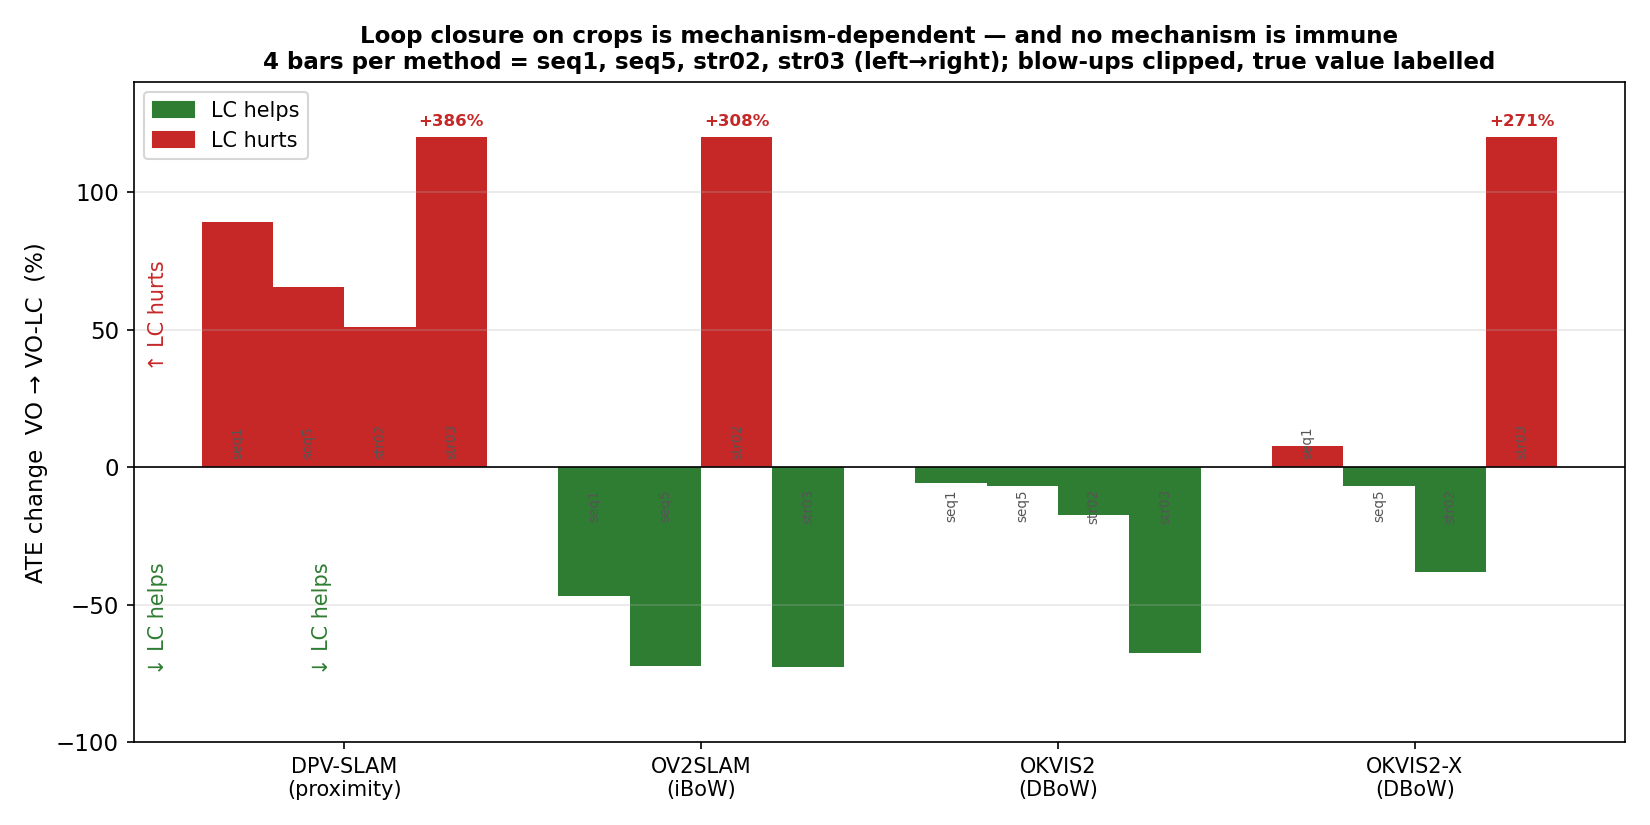
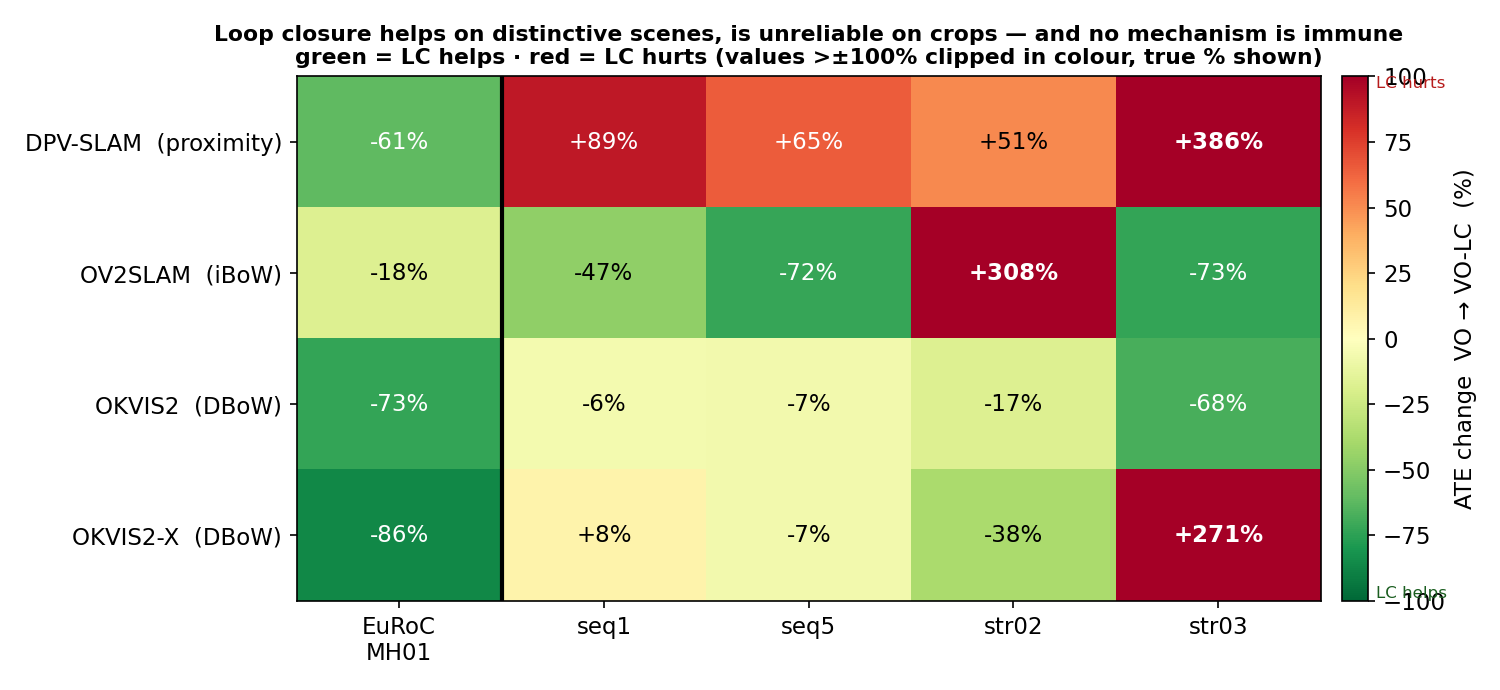
Replace LC bar chart with heatmap; drop unhelpful trajectory overlay

diff --git a/scripts/eval/make_report_figures.py b/scripts/eval/make_report_figures.py
@@ -68,39 +68,40 @@ def fig_excitation():
     fig.suptitle("The IMU's value is excitation-dependent:  it COLLAPSES on ZED2i, HELPS on Rosario", fontweight="bold")
     fig.tight_layout(); p = f"{OUT}/fig_imu_excitation.png"; fig.savefig(p); print(p)
 
-# ── FIG B: loop closure on crops — mechanism spectrum (VO -> VO-LC) ──────────
+# ── FIG B: loop closure — mechanism x sequence heatmap (VO -> VO-LC) ─────────
 def fig_lc_mechanism():
     VO, VOLC = load_csv("vo"), load_csv("vo-lc")
-    seqs = [("rosariov2", "sequence1", "seq1"), ("rosariov2", "sequence5", "seq5"),
-            ("hortimulti", "strawberry02", "str02"), ("hortimulti", "strawberry03", "str03")]
-    methods = [("dpvo", "DPV-SLAM\n(proximity)"), ("ov2slam", "OV2SLAM\n(iBoW)"),
-               ("okvis2", "OKVIS2\n(DBoW)"), ("okvis2x", "OKVIS2-X\n(DBoW)")]
-    from matplotlib.patches import Patch
-    CAP = 120  # clip bars above this; label true value at the cap
-    fig, ax = plt.subplots(figsize=(11, 5.5))
-    x = np.arange(len(methods)); w = 0.2
-    for i, (ds, sq, sl) in enumerate(seqs):
-        for j, (a, _) in enumerate(methods):
+    # columns: EuRoC (distinctive) then the 4 agricultural sequences
+    cols = [("euroc_mav", "MH_01_easy", "EuRoC\nMH01"), ("rosariov2", "sequence1", "seq1"),
+            ("rosariov2", "sequence5", "seq5"), ("hortimulti", "strawberry02", "str02"),
+            ("hortimulti", "strawberry03", "str03")]
+    rows = [("dpvo", "DPV-SLAM  (proximity)"), ("ov2slam", "OV2SLAM  (iBoW)"),
+            ("okvis2", "OKVIS2  (DBoW)"), ("okvis2x", "OKVIS2-X  (DBoW)")]
+    M = np.full((len(rows), len(cols)), np.nan)
+    for i, (a, _) in enumerate(rows):
+        for j, (ds, sq, _) in enumerate(cols):
             vo, vl = VO.get((a, ds, sq)), VOLC.get((a, ds, sq))
-            if not (vo and vl): continue
-            d = 100 * (vl - vo) / vo
-            xpos = x[j] + (i - 1.5) * w
-            col = "#2E7D32" if d < -3 else ("#C62828" if d > 3 else "#9E9E9E")
-            ax.bar(xpos, min(d, CAP), w, color=col)
-            if d > CAP:  # clipped blow-up: label true value
-                ax.text(xpos, CAP + 3, f"+{d:.0f}%", ha="center", va="bottom", fontsize=8, color="#C62828", fontweight="bold")
-            ax.text(xpos, -8 if d < 0 else 3, sl, ha="center", va="top" if d < 0 else "bottom", fontsize=6.5, rotation=90, color="#555")
-    ax.axhline(0, color="k", lw=0.8)
-    ax.set_xticks(x); ax.set_xticklabels([m[1] for m in methods], fontsize=10)
-    ax.set_ylabel("ATE change  VO → VO-LC  (%)")
-    ax.set_ylim(-100, CAP + 20)
-    ax.text(-0.09, -55, "↓ LC helps", rotation=90, va="center", color="#2E7D32", fontsize=10, transform=ax.get_yaxis_transform() if False else ax.transData)
-    ax.text(-0.55, 55, "↑ LC hurts", rotation=90, va="center", color="#C62828", fontsize=10)
-    ax.text(-0.55, -55, "↓ LC helps", rotation=90, va="center", color="#2E7D32", fontsize=10)
-    ax.set_title("Loop closure on crops is mechanism-dependent — and no mechanism is immune\n"
-                 "4 bars per method = seq1, seq5, str02, str03 (left→right); blow-ups clipped, true value labelled", fontweight="bold", fontsize=11)
-    ax.legend(handles=[Patch(color="#2E7D32", label="LC helps"), Patch(color="#C62828", label="LC hurts")], loc="upper left", fontsize=10)
-    ax.grid(axis="y", alpha=0.3)
+            if vo and vl: M[i, j] = 100 * (vl - vo) / vo
+    fig, ax = plt.subplots(figsize=(10, 4.6))
+    im = ax.imshow(np.clip(M, -100, 100), cmap="RdYlGn_r", vmin=-100, vmax=100, aspect="auto")
+    ax.set_xticks(range(len(cols))); ax.set_xticklabels([c[2] for c in cols], fontsize=11)
+    ax.set_yticks(range(len(rows))); ax.set_yticklabels([r[1] for r in rows], fontsize=11)
+    # vertical divider between EuRoC (distinctive reference) and agri
+    ax.axvline(0.5, color="k", lw=2)
+    for i in range(len(rows)):
+        for j in range(len(cols)):
+            v = M[i, j]
+            if np.isnan(v): continue
+            txt = f"{v:+.0f}%"
+            ax.text(j, i, txt, ha="center", va="center", fontsize=11,
+                    color="white" if abs(v) > 55 else "black",
+                    fontweight="bold" if v > 100 else "normal")
+    cb = fig.colorbar(im, ax=ax, fraction=0.03, pad=0.02)
+    cb.set_label("ATE change  VO → VO-LC  (%)")
+    cb.ax.text(1.3, 1.0, "LC hurts", transform=cb.ax.transAxes, va="top", fontsize=8, color="#B71C1C")
+    cb.ax.text(1.3, 0.0, "LC helps", transform=cb.ax.transAxes, va="bottom", fontsize=8, color="#1B5E20")
+    ax.set_title("Loop closure helps on distinctive scenes, is unreliable on crops — and no mechanism is immune\n"
+                 "green = LC helps · red = LC hurts (values >±100% clipped in colour, true % shown)", fontweight="bold", fontsize=10.5)
     fig.tight_layout(); p = f"{OUT}/fig_lc_mechanism.png"; fig.savefig(p); print(p)
 
 # ── FIG C: coverage — ORB fails where others complete + IMU rescue ──────────
@@ -143,20 +144,5 @@ def fig_coverage():
     axes[1].legend(); axes[1].grid(axis="y", alpha=0.3)
     fig.tight_layout(); p = f"{OUT}/fig_orb_coverage.png"; fig.savefig(p); print(p)
 
-# ── FIG D: single clean XY overlay (non-equal aspect so it's legible) ────────
-def fig_overlay():
-    gt_t, gt_xyz = load_tum(f"{WS}/datasets/rosariov2/sequence1/gt_interp_tum.txt")
-    fig, ax = plt.subplots(figsize=(11, 4.2))
-    ax.plot(gt_xyz[:, 0], gt_xyz[:, 1], "k--", lw=1.4, label="Ground truth", zorder=5)
-    for tree, col, lab in [("results-vo", "#2196F3", "ORB-SLAM3 VO — stops at 58%"),
-                           ("results-vio", "#FF5722", "ORB-SLAM3 VIO — completes (IMU bridges gaps)")]:
-        al, cov = aligned_xy(gt_t, gt_xyz, f"{WS}/{tree}/rosariov2/sequence1/orbslam3/run1/trajectory.txt")
-        if al is not None:
-            ax.plot(al[:, 0], al[:, 1], color=col, lw=1.0, label=lab, alpha=0.9)
-            ax.scatter(al[-1, 0], al[-1, 1], color=col, s=90, marker="X", zorder=6, edgecolor="k")
-    ax.set_xlabel("X (m)"); ax.set_ylabel("Y (m)"); ax.grid(alpha=0.3); ax.legend(loc="upper right", fontsize=9)
-    ax.set_title("Rosario seq1: ORB-SLAM3 VO (blue) stops mid-field; VIO (orange) reaches the far end (X = last pose)", fontweight="bold", fontsize=10)
-    fig.tight_layout(); p = f"{OUT}/fig_orb_overlay_seq1.png"; fig.savefig(p); print(p)
-
-fig_excitation(); fig_lc_mechanism(); fig_coverage(); fig_overlay()
+fig_excitation(); fig_lc_mechanism(); fig_coverage()
 print("done ->", OUT)
